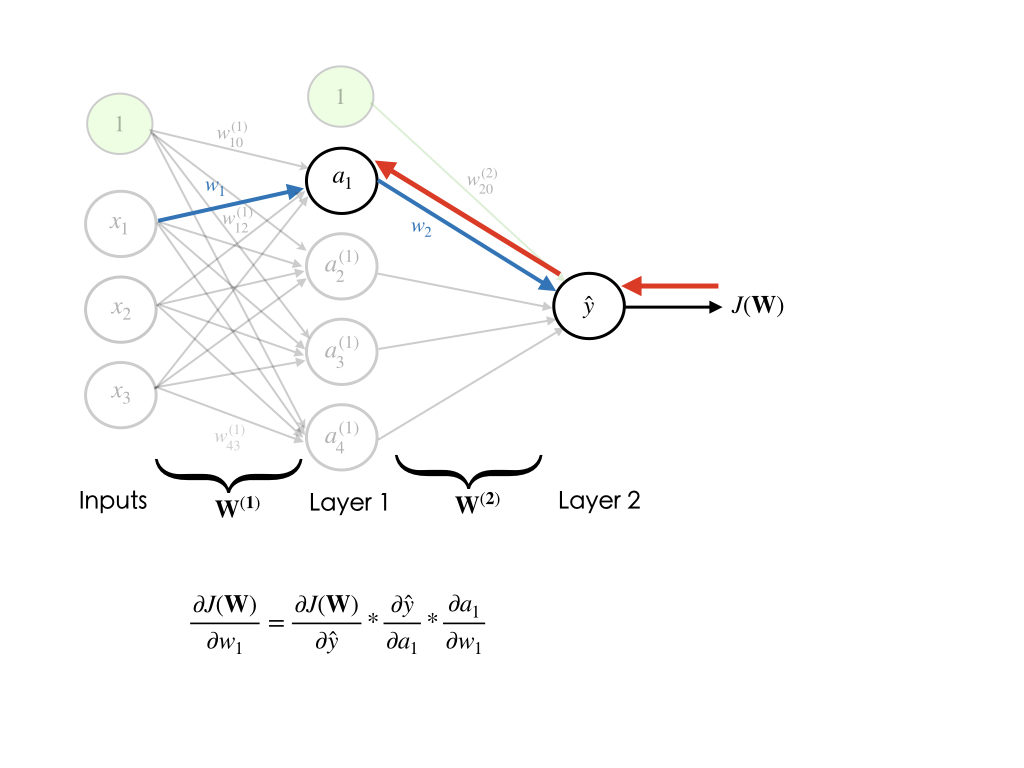
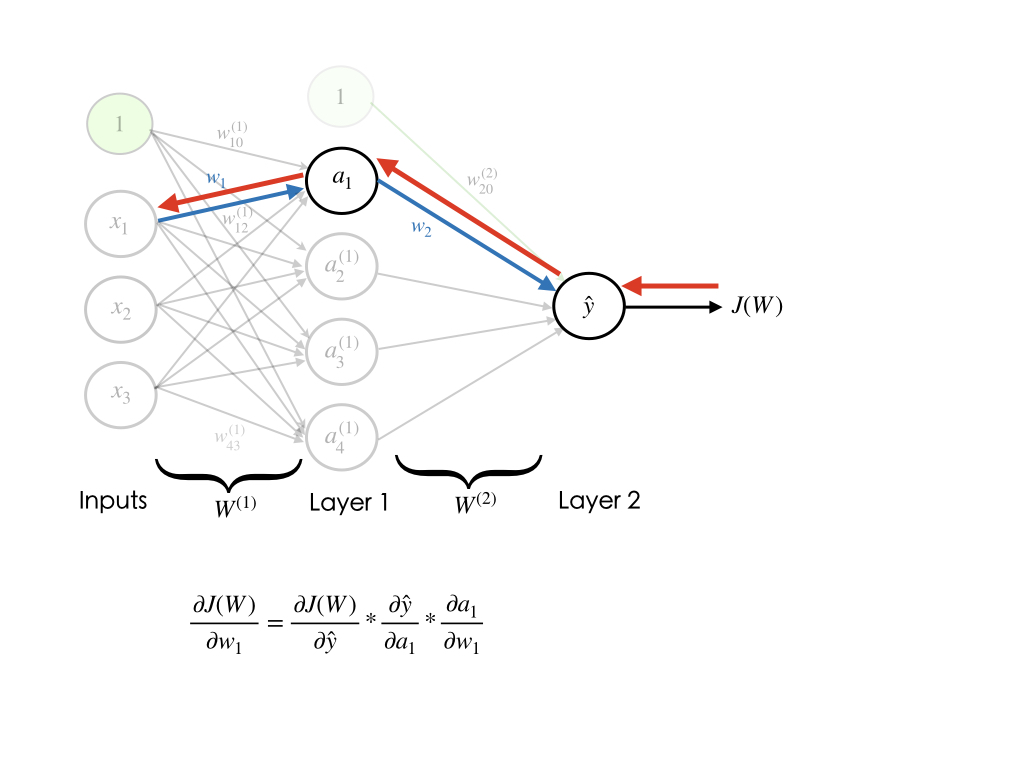
neural network updated

diff --git a/docs/neural_network.html b/docs/neural_network.html
@@ -91,26 +91,11 @@ $$\hat{y}=\sigma(b + \sum_{i=1}^n w_ix_i)$$<p>where $\sigma (t)=\frac{1}{1+e^{-t
 <div class="text_cell_render border-box-sizing rendered_html">
 <h3 id="Feed-forward-computation">Feed-forward computation<a class="anchor-link" href="#Feed-forward-computation">&#182;</a></h3><p>Feed-forward step fundamentally means <em>repeated matrix multiplications combined with activation function</em>. Considering our example network, we convert the different variables into vectors and matrices. Therefore, the input  would be a [3x1] vector. The weights of the hidden layer <code>W1</code> would be a [4x3] matrix, and its biases <code>b1</code> would be a [4x1] vector. In this layer, each neuron has its weights in a row of <code>W1</code>, so the matrix vector multiplication <code>np.dot(W1,x)</code> evaluates the activations of all neurons in this layer. For the last layer (output layer), <code>W2</code> and <code>b2</code> would be of size [1x4] and [1x1], respectively. The full forward pass of this 3-layer neural network is then simply three matrix multiplications, merged with the application of the activation function:</p>
 <p><img src="/ml_tutorial/images/nn_forward.jpeg" alt=""></p>
+<p>Therefore, the forward-pass is:</p>
+<p><img src="/ml_tutorial/images/nn_forward_full.jpeg" alt=""></p>
 
 </div>
 </div>
-</div>
-<div class="cell border-box-sizing code_cell rendered">
-<div class="input">
-
-<div class="inner_cell">
-    <div class="input_area">
-<div class=" highlight hl-ipython3"><pre><span></span><span class="c1"># forward-pass of a 2-layer neural network:</span>
-<span class="n">f</span> <span class="o">=</span> <span class="k">lambda</span> <span class="n">x</span><span class="p">:</span> <span class="mi">1</span><span class="o">/</span><span class="p">(</span><span class="mi">1</span> <span class="o">+</span> <span class="n">np</span><span class="o">.</span><span class="n">exp</span><span class="p">(</span><span class="o">-</span><span class="n">x</span><span class="p">))</span> <span class="c1"># activation function (use sigmoid)</span>
-<span class="n">x</span> <span class="o">=</span> <span class="n">np</span><span class="o">.</span><span class="n">random</span><span class="o">.</span><span class="n">randn</span><span class="p">(</span><span class="mi">3</span><span class="p">,</span> <span class="mi">1</span><span class="p">)</span> <span class="c1"># random input vector of three numbers (3x1)</span>
-<span class="n">h</span> <span class="o">=</span> <span class="n">f</span><span class="p">(</span><span class="n">np</span><span class="o">.</span><span class="n">dot</span><span class="p">(</span><span class="n">W1</span><span class="p">,</span> <span class="n">x</span><span class="p">)</span> <span class="o">+</span> <span class="n">b1</span><span class="p">)</span> <span class="c1"># calculate hidden layer activations (4x1)</span>
-<span class="n">out</span> <span class="o">=</span> <span class="n">f</span><span class="p">(</span><span class="n">np</span><span class="o">.</span><span class="n">dot</span><span class="p">(</span><span class="n">W2</span><span class="p">,</span> <span class="n">h</span><span class="p">)</span> <span class="o">+</span> <span class="n">b2</span><span class="p">)</span> <span class="c1"># output neuron (1x1)</span>
-</pre></div>
-
-    </div>
-</div>
-</div>
-
 </div>
 <div class="cell border-box-sizing text_cell rendered"><div class="inner_cell">
 <div class="text_cell_render border-box-sizing rendered_html">
@@ -123,8 +108,8 @@ $$\hat{y}=\sigma(b + \sum_{i=1}^n w_ix_i)$$<p>where $\sigma (t)=\frac{1}{1+e^{-t
 <div class="cell border-box-sizing text_cell rendered"><div class="inner_cell">
 <div class="text_cell_render border-box-sizing rendered_html">
 <h3 id="Loss-Function">Loss Function<a class="anchor-link" href="#Loss-Function">&#182;</a></h3><p>performing a forward-pass of the network gives us the predictions. Therefore, we must evaluate the "goodness" of our predictions, which means we need to measure how far off our predictions are. <strong>Loss function</strong> enables us to do that. The loss function measures the cost caused by incorrect predictions.</p>
-<p>if $\mathcal{L}(\hat{y}^{(i)},y^{(i)})$ is the loss of each example $i$ in the training set, for $i=1,2,\cdots,m$, then total loss $J(\mathbf{W})$ over the entire dataset is:</p>
-$$J(\mathbf{W})=\frac{1}{m}\sum_{i=1}^m \mathcal{L}(\hat{y}^{(i)},y^{(i)})$$<p>Please note that $\mathbf{W}=[\mathbf{W}^{(1)}, \mathbf{W}^{(2)},\cdots, \mathbf{W}^{(n)}]$, where $\mathbf{W}^{(j)}$ is matrix of weights of layer $j$</p>
+<p>if $\mathcal{L}(\hat{y}^{(i)},y^{(i)})$ is the loss of each example $i$ in the training set, for $i=1,2,\cdots,m$, then total loss $J(W)$ over the entire dataset is:</p>
+$$J(W)=\frac{1}{m}\sum_{i=1}^m \mathcal{L}(\hat{y}^{(i)},y^{(i)})$$<p>Please note that $W=[W^{(1)}, W^{(2)},\cdots, W^{(L)}]$, where $W^{(j)}$ is matrix of weights of layer $j$</p>
 
 </div>
 </div>
@@ -132,28 +117,28 @@ $$J(\mathbf{W})=\frac{1}{m}\sum_{i=1}^m \mathcal{L}(\hat{y}^{(i)},y^{(i)})$$<p>P
 <div class="cell border-box-sizing text_cell rendered"><div class="inner_cell">
 <div class="text_cell_render border-box-sizing rendered_html">
 <h3 id="Cross-Entropy-Loss">Cross Entropy Loss<a class="anchor-link" href="#Cross-Entropy-Loss">&#182;</a></h3><p>Cross entropy loss is used in classification problems and outputs a probability between 0 and 0.</p>
-$$J(\mathbf{W})=\frac{1}{m}\sum_{i=1}^m \left[ y^{(i)}\log(\hat{y}^{(i)}) + (1-y^{(i)})\log(1-\hat{y}^{(i)})\right]$$
+$$J(W)=\frac{1}{m}\sum_{i=1}^m \left[ y^{(i)}\log(\hat{y}^{(i)}) + (1-y^{(i)})\log(1-\hat{y}^{(i)})\right]$$
 </div>
 </div>
 </div>
 <div class="cell border-box-sizing text_cell rendered"><div class="inner_cell">
 <div class="text_cell_render border-box-sizing rendered_html">
 <h3 id="Mean-Squared-Error-Loss">Mean Squared Error Loss<a class="anchor-link" href="#Mean-Squared-Error-Loss">&#182;</a></h3><p>Mean squared error loss is used in regression problems and outputs a real-valued number.</p>
-$$J(\mathbf{W})=\frac{1}{m}\sum_{i=1}^m \left( y^{(i)} - \hat{y}^{(i)} \right)^2$$
+$$J(W)=\frac{1}{m}\sum_{i=1}^m \left( y^{(i)} - \hat{y}^{(i)} \right)^2$$
 </div>
 </div>
 </div>
 <div class="cell border-box-sizing text_cell rendered"><div class="inner_cell">
 <div class="text_cell_render border-box-sizing rendered_html">
 <h3 id="Backpropagation">Backpropagation<a class="anchor-link" href="#Backpropagation">&#182;</a></h3><p>Our goal in training is to find the weights and biases that minimizes the loss function:</p>
-$$\mathbf{W}^* = \underset{\mathbf{W}}{\arg\min}\ J(\mathbf{W})$$<p>After we measured the loss, we need to find a way to <strong>propagate</strong> the error back, and update our weights and biases, in order to decrease the loss. But how much should we adjust the weights and biases.</p>
+$$W^* = \underset{W}{\arg\min}\ J(W)$$<p>After we measured the loss, we need to find a way to <strong>propagate</strong> the error back, and update our weights and biases, in order to decrease the loss. But how much should we adjust the weights and biases.</p>
 <p>In order to find the appropriate amount of change in the weights and biases, we need to take the derivative of the loss function with respect to the weights and biases. The process of computing gradients of expressions through recursive application of chain rule is called <strong>backpropagation</strong>. When we have the gradients, we can use the <em>gradient descent</em> algorithm to update the weights.</p>
 <p>Gradient descent algorithm:</p>
 <ol>
 <li>Initialize the weights randomly $\sim N(0,\sigma^2)$</li>
 <li>Loop until convergence:<ol>
 <li>Compute gradient, $\frac{\partial J(\mathbf{W})}{\partial \mathbf{W}}$</li>
-<li>Update weights, $\mathbf{W} = \mathbf{W}-\eta \frac{\partial J(\mathbf{W})}{\partial \mathbf{W}}$</li>
+<li>Update weights, $W = W-\eta \frac{\partial J(W)}{\partial W}$</li>
 </ol>
 </li>
 <li>Return weights</li>
@@ -161,6 +146,14 @@ $$\mathbf{W}^* = \underset{\mathbf{W}}{\arg\min}\ J(\mathbf{W})$$<p>After we mea
 <p>For instance, if we are going to compute the gradient with respect to $w_1$, in our example network below, we have:
 <img src="/ml_tutorial/images/nn_backprop.jpeg" alt=""></p>
 <p>We need to repeat this <strong>for every weight in the network</strong> using gradients from later layers.</p>
+
+</div>
+</div>
+</div>
+<div class="cell border-box-sizing text_cell rendered"><div class="inner_cell">
+<div class="text_cell_render border-box-sizing rendered_html">
+<p>The full backpropagation of our model is: ($\odot$ is the element-wise multiplication)</p>
+<p><img src="/ml_tutorial/images/nn_backprop_full.jpeg" alt=""></p>
 
 </div>
 </div>

diff --git a/neural_networks.md b/neural_networks.md
@@ -55,13 +55,10 @@ Feed-forward step fundamentally means *repeated matrix multiplications combined 
 
 ![](images/nn_forward.jpeg)
 
-``` python
-# forward-pass of a 2-layer neural network:
-f = lambda x: 1/(1 + np.exp(-x)) # activation function (use sigmoid)
-x = np.random.randn(3, 1) # random input vector of three numbers (3x1)
-h1 = f(np.dot(W1, x) + b1) # calculate first hidden layer activations (4x1)
-out = f(np.dot(W2, h1) + b2) # output neuron (1x1)
-```
+Therefore, the forward-pass is:
+
+![](images/nn_forward_full.jpeg)
+
 
 We need to learn the Parameters `W1,W2,b1,b2` of the above network. Please note that the input `x` could be an entire batch of training data, where each example would be a column of `x`.
 
@@ -71,29 +68,29 @@ We need to learn the Parameters `W1,W2,b1,b2` of the above network. Please note 
 
 performing a forward-pass of the network gives us the predictions. Therefore, we must evaluate the "goodness" of our predictions, which means we need to measure how far off our predictions are. **Loss function** enables us to do that. The loss function measures the cost caused by incorrect predictions.
 
-if $\mathcal{L}(\hat{y}^{(i)},y^{(i)})$ is the loss of each example $i$ in the training set, for $i=1,2,\cdots,m$, then total loss $J(\mathbf{W})$ over the entire dataset is:
+if $\mathcal{L}(\hat{y}^{(i)},y^{(i)})$ is the loss of each example $i$ in the training set, for $i=1,2,\cdots,m$, then total loss $J(W)$ over the entire dataset is:
 
-$$J(\mathbf{W})=\frac{1}{m}\sum_{i=1}^m \mathcal{L}(\hat{y}^{(i)},y^{(i)})$$
+$$J(W)=\frac{1}{m}\sum_{i=1}^m \mathcal{L}(\hat{y}^{(i)},y^{(i)})$$
 
-Please note that $\mathbf{W}=[\mathbf{W}^{(1)}, \mathbf{W}^{(2)},\cdots, \mathbf{W}^{(n)}]$, where $\mathbf{W}^{(j)}$ is matrix of weights of layer $j$
+Please note that $W=[W^{(1)}, W^{(2)},\cdots, W^{(L)}]$, where $W^{(j)}$ is matrix of weights of layer $j$
 
 ### Cross Entropy Loss
 
 Cross entropy loss is used in classification problems and outputs a probability between 0 and 0.
 
-$$J(\mathbf{W})=\frac{1}{m}\sum_{i=1}^m \left[ y^{(i)}\log(\hat{y}^{(i)}) + (1-y^{(i)})\log(1-\hat{y}^{(i)})\right]$$
+$$J(W)=\frac{1}{m}\sum_{i=1}^m \left[ y^{(i)}\log(\hat{y}^{(i)}) + (1-y^{(i)})\log(1-\hat{y}^{(i)})\right]$$
 
 ### Mean Squared Error Loss
 
 Mean squared error loss is used in regression problems and outputs a real-valued number.
 
-$$J(\mathbf{W})=\frac{1}{m}\sum_{i=1}^m \left( y^{(i)} - \hat{y}^{(i)} \right)^2$$
+$$J(W)=\frac{1}{m}\sum_{i=1}^m \left( y^{(i)} - \hat{y}^{(i)} \right)^2$$
 
 ### Backpropagation
 
 Our goal in training is to find the weights and biases that minimizes the loss function:
 
-$$\mathbf{W}^* = \underset{\mathbf{W}}{\arg\min}\ J(\mathbf{W})$$
+$$W^* = \underset{W}{\arg\min}\ J(W)$$
 
 After we measured the loss, we need to find a way to **propagate** the error back, and update our weights and biases, in order to decrease the loss. But how much should we adjust the weights and biases.
 
@@ -103,7 +100,7 @@ Gradient descent algorithm:
 1. Initialize the weights randomly $\sim N(0,\sigma^2)$
 2. Loop until convergence:
    1. Compute gradient, $\frac{\partial J(\mathbf{W})}{\partial \mathbf{W}}$
-   2. Update weights, $\mathbf{W} = \mathbf{W}-\eta \frac{\partial J(\mathbf{W})}{\partial \mathbf{W}}$
+   2. Update weights, $W = W-\eta \frac{\partial J(W)}{\partial W}$
 3. Return weights
 
 For instance, if we are going to compute the gradient with respect to $w_1$, in our example network below, we have:
